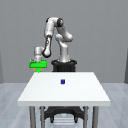
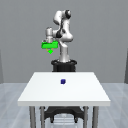
comments

Changed region(s): [[0.2188, 0.0625, 0.5625, 0.5625], [0.4688, 0.5938, 0.5312, 0.6562], [0.4688, 0.6562, 0.5, 0.6875]]

diff --git a/utils/dataset_utils.py b/utils/dataset_utils.py
@@ -368,6 +368,16 @@ def quaternion_difference(q1, q2):
     q1_inv = quaternion_inverse(q1)
     return quaternion_multiply(q2, q1_inv)
 
+def get_point_in_camera_frame(point_3D, R):
+    point_3D_homogeneous = np.array([point_3D[0], point_3D[1], point_3D[2], 1])
+
+    # Transform the point from world coordinates to camera coordinates
+    point_camera = R @ point_3D_homogeneous  # Resulting shape (4,)
+
+    # Extract x, y, and z coordinates in camera space
+    y_cam, x_cam, z_cam, _ = point_camera
+    
+    return np.array([x_cam, y_cam, z_cam])
 
 def project_point(K, R, point_3D):
     """
@@ -388,7 +398,7 @@ def project_point(K, R, point_3D):
     point_camera = R @ point_3D_homogeneous  # Resulting shape (4,)
 
     # Extract x, y, and z coordinates in camera space
-    y_cam, x_cam, z_cam, _ = point_camera
+    x_cam, y_cam, z_cam, _ = point_camera
     if z_cam == 0:  # Avoid division by zero
         raise ValueError("Point is located on the camera plane (z=0), projection undefined.")
 

diff --git a/datasets.py b/datasets.py
@@ -11,8 +11,7 @@ from tqdm import tqdm
 
 frontview_matrices = np.load('utils/frontview_matrices.npz')
 frontview_K = frontview_matrices['K'] # Intrinsics
-frontview_R = frontview_matrices['R'] # Extrinsics
-frontview_quat = np.array([0.56, 0.43, 0.43, 0.56])
+frontview_R = frontview_matrices['R'] # Extrinsics (camera frame in terms of global frame)
 
 class BaseDataset(Dataset):
     def __init__(self, path='../datasets/', 
